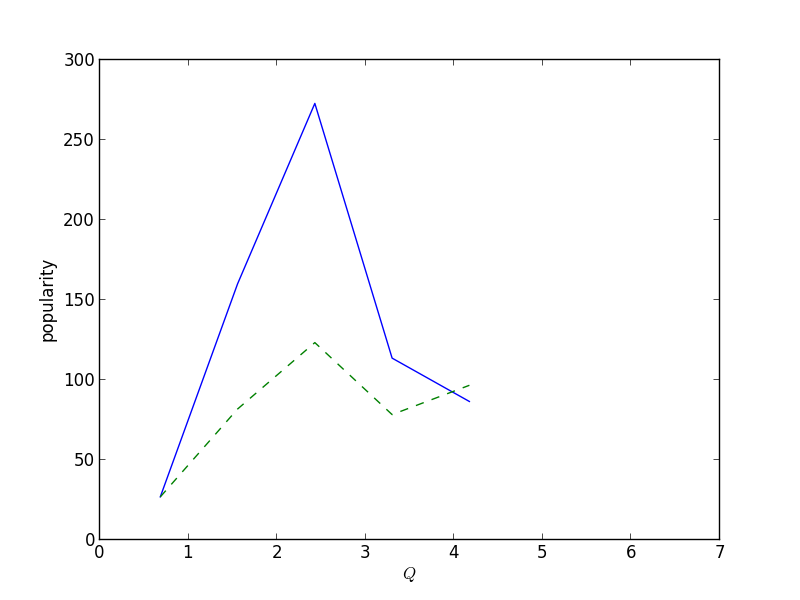
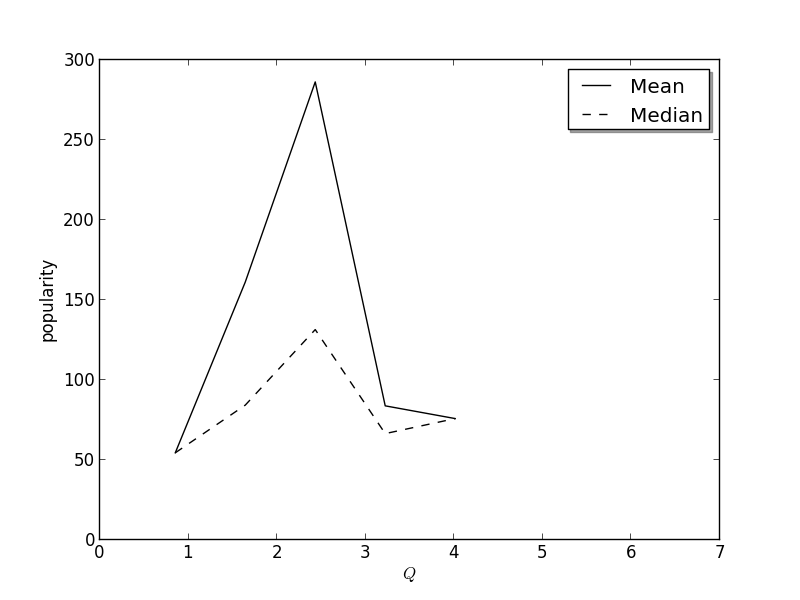
Main content in... the revisions begin.

diff --git a/paper/main.tex b/paper/main.tex
@@ -24,7 +24,7 @@ The Small World Network Effect in Software Project Teams
 \maketitle
 
 \begin{abstract}
-Team cohesion and the dynamics of team forming are important parts of any project, with software projects being no exception. An interesting aspect of team building is the relationships formed between the team members. If follows that visualizing software team members as a graph can give some insight as to what the optimal team conditions are. As team members move between projects, these graphs gets more and more connected as team members make connections. We show that this connectivity, known as the "small world effect," has a positive impact on team performance at when the connectivity levels are moderate. This aligns with similar research findings of non-software teams. We do, however, find high performance at the extremes of the connectivity range.
+Team cohesion and the dynamics of team forming are important parts of any project, with software projects being no exception. An interesting aspect of team building is the relationships formed between the team members. If follows that visualizing software team members as a graph can give some insight as to what the optimal team conditions are. As team members move between projects, these graphs become more and more connected as team members collaborate and form relationships. We show that this connectivity, known as the ``small world effect," has a positive impact on team performance when the connectivity levels are moderate. Performance degrades, however, at both very high and very low levels of connectivity. This aligns with similar research findings of non-software teams.
 \end{abstract}
 
 \noindent \\\textbf{Keywords.} Small World, Project Management, Software
@@ -38,11 +38,10 @@ Uzzi \cite{uzzi2005collaboration} expanded on this by exploring how these small 
 
 We follow Uzzi's work, and expand it to software teams. We hypothesize that the qualities of a small world graph that foster collaboration, creativity, and the efficiency of how knowledge is transfered\cite{latora2001efficient} will also apply to software project teams. In this work, we investigate the `small world' phenomenon quantitatively by exploring open source project data, and qualitatively by a series of interviews of subject matter experts, and look to compare Uzzi's findings to ours.
 
-
 \subsection{Hypothesis}
 The formalization of the `small world' quality of a graph can be expressed by the \textit{Small World Quotient}, or $Q$\cite{watts1999small,watts1998collective}. The value $Q$ is calculated by dividing the clustering factor of graph by the average path length between nodes. Uzzi explored this value in graphs of Broadway productions\cite{uzzi2005collaboration}. His findings suggest that the success of Broadway productions is greatest when teams have a good mix of new and familiar members. Productions are less likely to be successful when team members are very familiar with each other. Also, probability of success drops much the same way when there is little familiarity between team members. This indicates that there is an optimal ratio of new and familiar members on a team -- or, an optimal value of $Q$ when related to performance.
 
-\textit{Software Project Teams will perform best at moderate levels of $Q$. This performance, measured by the amount of interest their projects generate, will increase as the level of $Q$ increases for the developer graph. This will continue up to an optimal $Q$ value, after which performance will begin to degrade. Thus, the performance curve given $Q$ will be inverse U-shaped, and match Uzzi's findings\cite{uzzi2005collaboration}.}
+\textit{Software Project Teams will perform best at moderate levels of $Q$. This performance, measured by the amount of interest their projects generate, will increase as the level of $Q$ increases for the contributor graph. This will continue up to an optimal $Q$ value, after which performance will begin to degrade. Thus, the performance curve given $Q$ will be inverse U-shaped, and match Uzzi's findings\cite{uzzi2005collaboration}.}
 
 \section{Methods}
 
@@ -53,7 +52,7 @@ Data was collected using the freely available FLOSSmole\cite{floss2006} data set
 The collected data was organized into a graph structure, with the nodes representing the collaborators and the edges representing one or more shared project between collaborators. Various properties of the graph are analyzed, followed by a qualitative section to help link the quantitative analysis to subject matter expert experiences.
 
 \subsubsection{Graph Structure}
-For each dataset, we first considered the dataset to be one large graph. From this large disconnected graph, each connected subgraph was analyzed. Metrics were then computed for each of these subgraphs.
+For each dataset, we first considered the dataset to be one large graph. From this large disconnected graph, each connected subgraph was analyzed. Metrics were then computed for each of these subgraphs. In order to correctly compute the metrics below, a minimum subgraph size was required. Specifically, many of the graph metrics of interest measured ``triangles'' of nodes and their connections. This implies a subgraph of {$>= 3$} nodes is needed. Subgraphs of {$< 3$} nodes were not considered for analysis.
 
 \begin{figure}
 \centering
@@ -144,7 +143,6 @@ Also, calculating the \textit{Path Length} ($L$) allows us to determine how far 
 
 Where {$v_i \in P$}, {$v_j \in P$}, and {$\lambda(v_i,v_j)$} denotes the shortest path between the two nodes. We only consider path length for connected subgraphs, avoiding some complexities of this calculation on disconnected graphs\cite{boccaletti2006complex}.
 
-
 \begin{figure}
 \centering
 \begin{tikzpicture}
@@ -194,7 +192,6 @@ Where {$v_i \in P$}, {$v_j \in P$}, and {$\lambda(v_i,v_j)$} denotes the shortes
 \label{fig:example_graphs}
 \end{figure}
 
-
 \noindent\\\textit{\textbf{Small World Quotient ($Q$)}}\\
 The definition of a \textit{small world} graph can be formalized by the following equations\cite{humphries2008network,uzzi2005collaboration}.
 
@@ -214,11 +211,9 @@ To further explore the data, a measurement of project performance was needed. As
 
 For both datasets, we base our performance metric on \textit{use}. For Freecode, we use the \textit{Popularity Score} metric, which is calculated the following formula\footnote{http://help.freecode.com/kb/statistics/how-do-you-measure-a-projects-popularity}:
 
-
 \[ ((record\ hits + URL\ hits) \cdot (followers + 1))^{1/2} \]
 
 For the SourceForge dataset, performance is based on the repository's internal \textit{rank} metric. Note that there was no attempt to normalize the two performance metrics between datasets. Because of this, no cross-dataset measurements can be made, as the performance metric is only valid in the context of the enclosing dataset. 
-
 
 \subsubsection{Qualitative Analysis}
 So far we have explored, via data analysis, how closely project collaborators are connected to one another, and what correlations we can derive from this analysis. We have said little as to why these connections are made, how they are maintained, and what exactly a connection means at a personal level. Via qualitative analysis, we will attempt to enrich our data analysis by providing deeper context.\\
@@ -233,7 +228,6 @@ To further study these factors, we arranged interviews with two current professi
 \noindent\\\textit{Q4: What are some characteristics of a high performing team?}\\
 \noindent\\\textit{Q5: In your experience, is it better to (A) keep an innovative team intact, (B) periodically bring in new members or re-assign existing members, or (C) split up and disperse the team to as many other projects as possible?}\\
 
-
 \section{Results}
 
 \subsection{Quantitative}
@@ -241,11 +235,22 @@ To further study these factors, we arranged interviews with two current professi
 \input{tables/subgraphs_summary_freecode}
 \input{tables/subgraphs_summary_sf}
 
-Summary statistics for the graph analysis are captured in figure \ref{fig:summary_stats}. Importantly, $Q > 1$ is observed for both the mean and the median, which meets the criteria for a small-world network\cite{humphries2008network}.\\
+Summary statistics for the graph analysis are captured in figure \ref{fig:summary_stats}.  Statistics analyzed included:\\
+$Q$ - \textit{Small World Quotient}\\
+$C^\Delta$ - \textit{Clustering Coefficient - Transitivity}\\
+$\overline{C^\lambda}$ - \textit{Clustering Coefficient - Average}\\
+$L$ - \textit{Average Path Length}\\
+$N$ - \textit{Number of Nodes}\\
+$E$ - \textit{Number of Edges}\\
+As measured over the number of projects $P$, with the total number of contributors $C$. The number of connected subgraphs analyzed is shown as $P_c$.
 
-$C^\Delta$ and $\overline{C^\lambda}$ both indicate values approaching 1. This observation indicates a high degree of clustering\cite{watts1998collective}. hat any indicates that the majority of subgraphs have a $Q$ and $C^\Delta$ value of close to either 0 or 1. Exploring this phenomenon further, we can derive that most graphs resemble the middle or the bottom graph in figure \ref{fig:example_graphs}, with relatively few resembling the top graph.
+A mean value of $Q$ was observed to be $> 1$ for both data sets, which meets the criteria for a small-world network\cite{humphries2008network}. The median, however, is 1.0 in both cases, which does not match the small world network criteria. A possible explanation of this is the power law distribution of $Q$ observed in both data sets (figures \ref{fig:q_fc_distribution} and \ref{fig:q_sf_distribution}. This indicates that a large proportion of $Q$ values are around 1.\\
 
-To validate the hypothesis, we expect to find that medium values of $Q$ will be correlated with more popular projects. To explore this possibility, we first compare the popularity given $Q$ values as shown in figures \ref{fig:q_fc_graph} and \ref{fig:q_sf_graph}. The $Q$ values do display the U-shaped characteristic as compared to popularity, which aligns with the findings of Uzzi \textit{et. al}\cite{uzzi2005collaboration}.
+$C^\Delta$ and $\overline{C^\lambda}$ both indicate values approaching 1. This observation indicates a high degree of clustering\cite{watts1998collective}. hat any indicates that the majority of subgraphs have a $Q$ and $C^\Delta$ value of close to either 0 or 1. Exploring this phenomenon further, we can derive that most graphs resemble the middle or the bottom graph in figure \ref{fig:example_graphs}, with relatively few resembling the top graph.\\
+
+Note that $P_c$ values are relatively small compared to $P$ and $C$ values. It would be intuitive to assume that {$C \times P_c \approx P$} -- in other words, if we split the entire graph into connected subgraphs, the number of subgraphs multiplied by the average number of nodes (contributors) per subgraph should equal the total number of contributors ($C$). This, however, is not the case. In fact, $P_c$ is notably smaller than expected. Recall that during analysis, subgraphs of {$< 3$} nodes were not considered. We can assume then that a large number of subgraphs are very small, with only one or two nodes. Further analysis is needed to fully understand the implications of this.
+
+To validate the hypothesis, we expect to find that intermediate values of $Q$ will be correlated with more popular projects. To explore this possibility, we first compare the popularity given $Q$ values as shown in figures \ref{fig:q_fc_graph} and \ref{fig:q_sf_graph}. The $Q$ values do display the U-shaped characteristic as compared to popularity, which aligns with the findings of Uzzi \textit{et. al}\cite{uzzi2005collaboration}.
 
 \begin{figure}
 \begin{center}
@@ -254,7 +259,6 @@ To validate the hypothesis, we expect to find that medium values of $Q$ will be 
 \caption{Freecode $Q$ and Project Popularity}
 \label{fig:q_fc_graph}
 \end{figure}
-
 
 \begin{figure}
 \begin{center}
@@ -265,7 +269,6 @@ To validate the hypothesis, we expect to find that medium values of $Q$ will be 
 \end{figure}
 
 Distribution of $Q$ values are shown in figures \ref{fig:q_fc_distribution} and \ref{fig:q_sf_distribution}. The values of $Q$ generally follow a power-law distribution, with most values being at our around {$Q = 1$}. This indicates that many graphs are close to the delineation of being considered small-world\cite{humphries2008network}.
-
 
 \begin{figure}
 \begin{center}
@@ -285,9 +288,8 @@ Distribution of $Q$ values are shown in figures \ref{fig:q_fc_distribution} and 
 
 Small-world-ness, or $Q$, is generally between 1 and 3 for most sub-graphs.
 
-
 \subsection{Qualitative}
-The research interviews provided a look into how some of these quantitative findings translate into actual industry practice. It also helped us to get a deeper understand of what what we have found in the data analysis, as we could begin to build some workplace context into our results. There were are few re-occurring themes that we will base our analysis on\cite{stmartin_interview,stmartin_interview}:
+The research interviews provided a look into how some of these quantitative findings translate into actual industry practice. It also helped us to get a deeper understanding of what we had found in the data analysis, as we could begin to build some workplace context into our results. There were are few re-occurring themes from which we will base our analysis\cite{stmartin_interview,rana_interview}:
 
 \noindent\\\textit{\textbf{New contributors are good, as long as the core team remains intact.}}\\
 Both participants mentioned the idea of keeping a ``core" team intact. This was certainly an often cited notion in both interviews. This concept appears to align with the idea of a \textit{core/periphery}\cite{borgatti2000models}, where the graph under study contains one (or many) tightly interconnected subgraphs, with less tightly connected nodes radiating out from this core.
@@ -308,10 +310,12 @@ Timeline and priority discussed as strong contributors to team success. Team bui
 It was also indicated that priority was a major factor. Different project priorities, and the resultant shifting of resources, had the possible effect of the weakening of string team's core members. This can be related to focus as well, as changing priorities can cause resource realignment and decreased overall focus.
 
 \section{Conclusion}
-The project graph contains a large amount of subgraphs, and as a whole appears less clustered than some other observed social network graphs\cite{madey2002open}.
+Our hypothesis theorizes that medium values of clustering between collaborators on projects is optimal for project performance. The data analysis, specifically figures \ref{fig:q_fc_graph} and \ref{fig:q_sf_graph}, seem to support this claim. Also, qualitative research seems to support the hypothesis as well. Our interviews revealed that from experience, teams perform best when a stable core is periodically augmented with new members. This would be a qualitative representation of a intermediate $Q$ value -- significant clustering but not to the extent of isolation. Given both the quantitative and qualitative analysis, we can assert to align with Uzzi's findings\cite{uzzi2005collaboration} and show that intermediate values of $Q$ are correlated with increased project performance.
 
-A further area of study would be how this relates to previously defined \textit{success factors} in projects\cite{cooke2002real}.
+\section{Future Research}
+Social networks, interpersonal relationships, and software development are all complex topics. We have explored a narrow slice of these in context, and there are some important areas of future exploration. First, the contributor graph contains a large amount of subgraphs, and as a whole appears less clustered than some other observed social network graphs -- consistent with Madey's findings\cite{madey2002open} on SourceForge data. As noted in our analysis, a large number of these subgraphs have only one or two contributors. This implies that a large number of contributors work alone and on a single project. We do not, with the current analysis, know how (or if) this degrades the quality of our findings.\\
 
+A further area of study would be how our findings relate to previously defined \textit{success factors} in projects\cite{cooke2002real}. Also, we do not know directly \textit{how} intermediate values of $Q$ influence performance -- we can only observe a quantitative and qualitative correlation. We make a tacit equivalence to clustering and knowledge sharing, but we have not directly observed that in our analysis. Research does suggest that social factors are knowledge sharing motivators\cite{hendriks1999share}, but how that relates specifically to our work is unexplored here.\\
 
 \section{Acknowledgments}
 We thank Praveen Mittal and John Kaman for their insight, guidance, and instruction, M Iftekhar (Ifte) Rana and Traci St. Martin for their time and expertise, and Rick Kiefer for his review.

diff --git a/code/analyze_graph.py b/code/analyze_graph.py
@@ -128,7 +128,7 @@ def compute_random_graph(nodes, edges, g):
         assert (edges == (nodes - 1))
         return g
 
-def graph(name, data, popularity):
+def graph(title, name, data, popularity):
     contributors = data[0]
     projects = data[1]
     G = nx.Graph()
@@ -210,7 +210,7 @@ def graph(name, data, popularity):
     total_projects = len(set(sum(contributors.values(), [])))
 
     write_table("subgraphs_summary_" + name,
-                table.create_table("Summary", "fig:summary_stats", "P: %s, $P_c$: %s, C: %s" % (total_projects, N, len(contributors.keys())),
+                table.create_table(title + " Summary", "fig:"+name+"_summary_stats", "P: %s, $P_c$: %s, C: %s" % (total_projects, N, len(contributors.keys())),
                                    OrderedDict([
                                        ("$Q$", q),
                                        ("$C^{\Delta}$", cc),
@@ -240,14 +240,18 @@ def create_graph(filename, x, y):
     avg = [np.mean(j, axis=None) for j in y]
     median = [np.median(j) for j in y]
 
-    fig = plt.figure()
-    plt.plot(x,avg,'-')
-    plt.plot(x,median,'--')
-    plt.xlabel("$Q$")
-    plt.ylabel("popularity")
+    fig, ax = plt.subplots()
+    ax.plot(x,avg,'k-', label="Mean")
+    ax.plot(x,median,'k--', label="Median")
+
+    ax.set_xlabel("$Q$")
+    ax.set_ylabel("popularity")
+
+    ax.legend(shadow=True)
+
     F = plt.gcf()
     F.savefig("../paper/images/"+filename+"-graph.png")
     plt.close(fig)
 
-graph("freecode", read_contributors_fc(), read_stats_fc())
-graph("sf", read_contributors_sf(), read_stats_sf())
+graph("Freecode", "freecode", read_contributors_fc(), read_stats_fc())
+graph("SourceForge", "sf", read_contributors_sf(), read_stats_sf())

diff --git a/paper/tables/subgraphs_summary_freecode.tex b/paper/tables/subgraphs_summary_freecode.tex
@@ -1,16 +1,16 @@
 \begin{table}[htbp]\centering
-\caption{\label{fig:fc_summary_stats}
+\caption{\label{fig:freecode_summary_stats}
 \textbf{Freecode Statistics} }\begin{tabular} {@{} l r  r  r  r  r  r  @{}} \\ \hline
-\textbf{Statistic} & \textbf{Mean} & \textbf{Med} & \textbf{Max} & \textbf{Min} & \textbf{Std} \\ 
+\textbf{Var} & \textbf{Mean} & \textbf{Med} & \textbf{Max} & \textbf{Min} & \textbf{Std} \\ 
 \hline
-$Q$ & 1.4 & 1.0 & 6.79 & 0.68 & 0.79 \\ 
-$C^{\Delta}$ & 0.92 & 1.0 & 1.0 & 0.18 & 0.17 \\ 
-$\overline{C^{\lambda}}$ & 0.86 & 1.0 & 1.0 & 0.15 & 0.24 \\ 
-$L$ & 1.1 & 1.0 & 2.32 & 1.0 & 0.24 \\ 
+$Q$ & 1.36 & 1.0 & 6.38 & 0.85 & 0.72 \\ 
+$C^{\Delta}$ & 0.91 & 1.0 & 1.0 & 0.18 & 0.19 \\ 
+$\overline{C^{\lambda}}$ & 0.85 & 1.0 & 1.0 & 0.14 & 0.25 \\ 
+$L$ & 1.12 & 1.0 & 2.32 & 1.0 & 0.26 \\ 
 N & 4.06 & 3.0 & 16.0 & 3.0 & 2.12 \\ 
 E & 5.34 & 3.0 & 78.0 & 2.0 & 7.48 \\ 
 \hline
 \multicolumn{6}{@{}l}{
-P: 41121, $P_c$: 152, C: 21970}
+P: 41121, $P_c$: 156, C: 21970}
 \end{tabular}
 \end{table}
